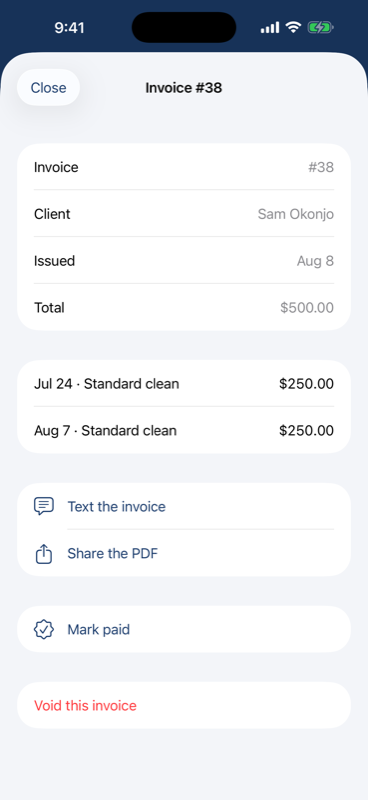
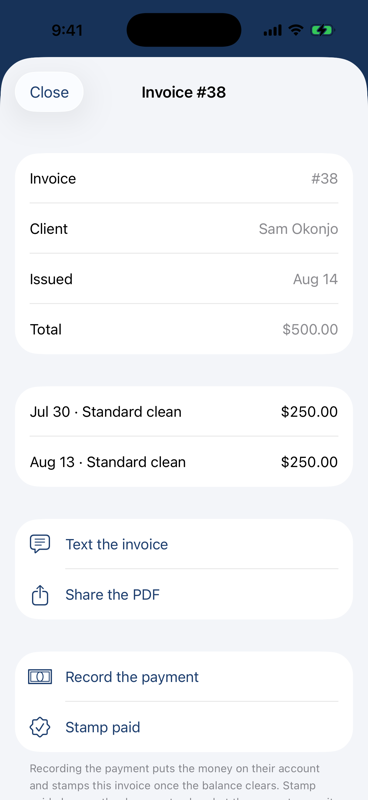
The guide catches up to 1.1, which the reviewer holds
Two spots went stale with today's build: the invoice paragraph led with
the stamp under its old "Mark it paid" name, and invoice.png showed the
old screen with the stamp as the only action. Both now match the
payment-first arrangement in the submitted build 25, and the crew
section says checkmarks flow both ways with the owner's name on theirs.

Shipped now rather than at approval because the guide is reviewable
surface: it must describe the binary in the reviewer's hands, and 1.1
was submitted today with automatic release.

diff --git a/guide.html b/guide.html
@@ -193,9 +193,11 @@ who to nudge first.</figcaption></figure>
 PDF; both carry the same line items, and both carry a pay link if you have card payments
 switched on. An issued invoice never rewrites itself. Change a price afterwards and the
 ledger changes, while the document you already sent stays as it was.</p>
-<p>Mark it paid when the check arrives, or let a recorded payment do it. If you issued one
-in error, void it: the charges go back to being billable, and the sales tax the invoice
-added comes back off.</p>
+<p>When the money arrives, record the payment: it goes on the client's account and stamps
+the invoice once the balance clears. Stamp paid is there for the invoice you issue after
+cash already changed hands; it changes the document only, so what they owe stays as it is.
+If you issued one in error, void it: the charges go back to being billable, and the sales
+tax the invoice added comes back off.</p>
 </div>
 <figure><img src="guide/invoice.png" alt="An invoice"><figcaption>Text it or share the
 PDF. The pay link works until it is paid.</figcaption></figure>
@@ -277,7 +279,9 @@ alike. The page is in English or Spanish, their choice, on the sign-in screen.</
 <p>Their day is a list of stops. Tapping one opens the room checklist, the timer, and, if
 you allowed it, the door code behind a button, so it is not sitting on screen in
 someone's hand at the supermarket.</p>
-<p>What they tick, the time they log and the expenses they enter come back to you.</p>
+<p>What they tick, the time they log and the expenses they enter come back to you, and
+the rooms you check on your own phone show up on their screen with your name on them, so
+nobody cleans a room twice.</p>
 </div>
 <figure><img src="guide/crew-day.png" alt="The crew website, a day"><figcaption>A
 cleaner's day: their stops, and a place to log an expense.</figcaption></figure>
